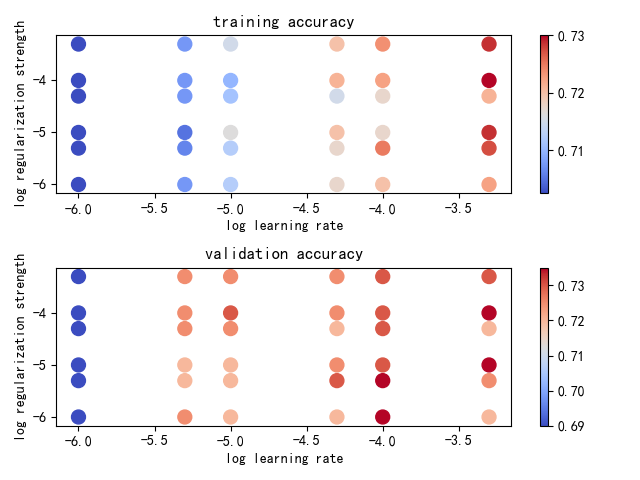
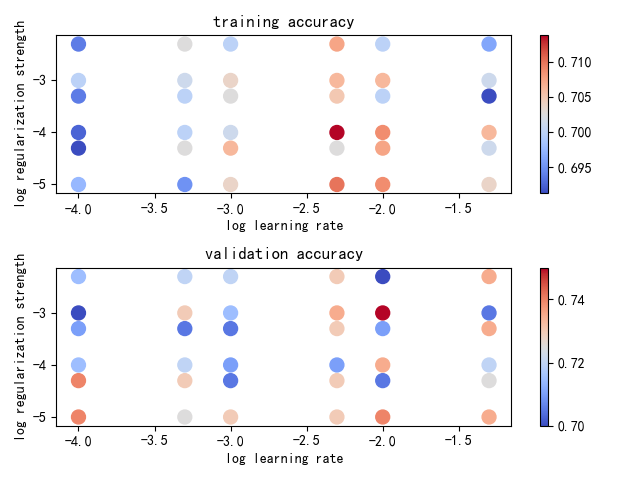
docs(KNN-SVM): 在KNN和SVM训练前标准化数据集

diff --git a/blogs/source/_posts/线性SVM分类器.md b/blogs/source/_posts/线性SVM分类器.md
@@ -41,7 +41,7 @@ $$
 L = \frac {1}{N} \sum_{i} L_{i} + \lambda R(W)
 $$
 
-折页损失计算表达式如下：
+折页损失（`hinge loss`）计算表达式如下：
 
 $$
 L_{i} = \sum_{j\neq y_{i}} \max(0, s_{j} - s_{y_{i}} + \triangle )
@@ -341,7 +341,7 @@ def cross_validation(x_train, y_train, x_val, y_val, lr_choices, reg_choices):
         for reg in reg_choices:
             svm = LinearSVM()
 
-            svm.train(x_train, y_train, learning_rate=lr, reg=reg, num_iters=5000, batch_size=200, verbose=True)
+            svm.train(x_train, y_train, learning_rate=lr, reg=reg, num_iters=2000, batch_size=100, verbose=True)
             y_train_pred = svm.predict(x_train)
             y_val_pred = svm.predict(x_val)
 
@@ -389,6 +389,14 @@ if __name__ == '__main__':
     # data_path = '/home/zj/data/german/german.data-numeric'
     # x_train, x_test, y_train, y_test = load_german_data(data_path, shuffle=True, tsize=0.8)
 
+    x_train = x_train.astype(np.double)
+    x_test = x_test.astype(np.double)
+    mu = np.mean(x_train, axis=0)
+    var = np.var(x_train, axis=0)
+    eps = 1e-8
+    x_train = (x_train - mu) / np.sqrt(var + eps)
+    x_test = (x_test - mu) / np.sqrt(var + eps)
+
     lr_choices = [1e-4, 5e-4, 1e-3, 5e-3, 1e-2, 5e-2]
     reg_choices = [1e-4, 5e-4, 1e-3, 5e-3, 1e-2, 5e-2]
     results, best_svm, best_val = cross_validation(x_train, y_train, x_test, y_test, lr_choices, reg_choices)
@@ -404,7 +412,7 @@ if __name__ == '__main__':
     print('最好的测试精度： %f' % best_val)
 ```
 
-测试不同学习率和正则化强度下的`SVM`分类器训练结果，批量大小为`500`，每组参数训练`5000`次
+测试不同学习率和正则化强度下的`SVM`分类器训练结果，批量大小为`100`，每组参数训练`2000`次
 
 `Iris`数据集训练结果如下：
 
@@ -418,8 +426,8 @@ if __name__ == '__main__':
 `German data`数据集训练结果如下：
 
 ```
-最好的设置是： lr = 0.000100, reg = 0.000001
-最好的测试精度： 0.735000
+最好的设置是： lr = 0.010000, reg = 0.001000
+最好的测试精度： 0.750000
 ```
 
 ![](/imgs/SVM/german_svm.png)
@@ -428,7 +436,7 @@ if __name__ == '__main__':
 
 |     |  Iris  | German data |
 |:---:|:------:|:-----------:|
-| KNN | 26.67% |    73.5%    |
-| SVM |   80%  |    73.5%    |
+| KNN | 93.33% |    73.5%    |
+| SVM |   80%  |     75%     |
 
-与KNN分类器相比，线性`SVM`分类器对于线性数据的分类性能更强；对于非线性数据，其分类结果不理想。不过可以通过核技巧，将原始特征投影到高维空间，从而能够实现非线性`SVM`分类器，进一步提高分类性能
+线性`SVM`分类器对于非线性数据的分类结果不理想。不过可以通过核技巧，将原始特征投影到高维空间，从而能够实现非线性`SVM`分类器，进一步提高分类性能

diff --git a/blogs/source/_posts/KNN分类器.md b/blogs/source/_posts/KNN分类器.md
@@ -320,6 +320,14 @@ if __name__ == '__main__':
     data_path = '/home/zj/data/german/german.data-numeric'
     x_train, x_test, y_train, y_test = load_german_data(data_path, shuffle=True, tsize=0.8)
 
+    x_train = x_train.astype(np.double)
+    x_test = x_test.astype(np.double)
+    mu = np.mean(x_train, axis=0)
+    var = np.var(x_train, axis=0)
+    eps = 1e-8
+    x_train = (x_train - mu) / np.sqrt(var + eps)
+    x_test = (x_test - mu) / np.sqrt(var + eps)
+
     k_choices = [1, 3, 5, 8, 10, 12, 15, 20, 30, 50, 100]
     k_to_accuracies = cross_validation(x_train, y_train, k_choices)
 
@@ -350,7 +358,7 @@ if __name__ == '__main__':
 
 ```
 最好的k值是：12
-测试集精度为：0.266667
+测试集精度为：0.933333
 ```
 
 ![](/imgs/KNN/iris.png)
